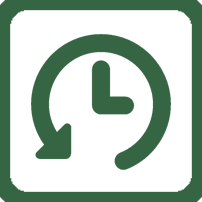
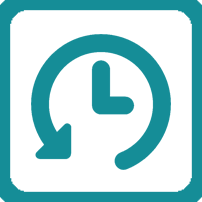
终稿

diff --git a/src/dataGenerator.js b/src/dataGenerator.js
@@ -5,6 +5,7 @@ var dataGenerator = {
     originData: [],//初始数据
     arrestData:'',
     cacheheat:'',
+    arrestDescript:'',
     line1:[{"Q":41.800610475365566,"R":123.35612103536727,"lng":123.356121,"lat":41.80061},{"Q":41.79792308644949,"R":123.36178586080672,"lng":123.361786,"lat":41.797923},{"Q":41.7955555314141,"R":123.36676404073836,"lng":123.366764,"lat":41.795556},{"Q":41.794275735520095,"R":123.3706264217198,"lng":123.370626,"lat":41.794276},{"Q":41.78915629640008,"R":123.38229939535262,"lng":123.382299,"lat":41.789156},{"Q":41.78282042443671,"R":123.3977489192784,"lng":123.397749,"lat":41.78282},{"Q":41.77507573063902,"R":123.41620251730086,"lng":123.416203,"lat":41.775076},{"Q":41.77168313318515,"R":123.42349812582137,"lng":123.423498,"lat":41.771683},{"Q":41.77168313318515,"R":123.42495724752547,"lng":123.424957,"lat":41.771683},{"Q":41.77142708073641,"R":123.4263305385411,"lng":123.426331,"lat":41.771427},{"Q":41.77136306746452,"R":123.43577191427352,"lng":123.435772,"lat":41.771363},{"Q":41.77104300014684,"R":123.4428100307286,"lng":123.44281,"lat":41.771043},{"Q":41.76118414468399,"R":123.44220921590926,"lng":123.442209,"lat":41.761184},{"Q":41.76105609763496,"R":123.44538495138289,"lng":123.445385,"lat":41.761056},{"Q":41.75990366269571,"R":123.44650075033309,"lng":123.446501,"lat":41.759904},{"Q":41.75900731010104,"R":123.44658658102156,"lng":123.446587,"lat":41.759007},{"Q":41.75695845715665,"R":123.4475307185948,"lng":123.447531,"lat":41.756958},{"Q":41.758046918427716,"R":123.45001980856063,"lng":123.45002,"lat":41.758047},{"Q":41.75932743746495,"R":123.45345303609969,"lng":123.453453,"lat":41.759327},{"Q":41.76003171204436,"R":123.45860287740828,"lng":123.458603,"lat":41.760032},{"Q":41.76041585855716,"R":123.46340939596297,"lng":123.463409,"lat":41.760416},{"Q":41.7604798827524,"R":123.47113415792586,"lng":123.471134,"lat":41.76048},{"Q":41.76041585855716,"R":123.47285077169539,"lng":123.472851,"lat":41.760416},{"Q":41.75734262106571,"R":123.47731396481396,"lng":123.477314,"lat":41.757343}],
     circle1:[{"Q":41.80073384260697,"R":123.35603719353674,"lng":123.356037,"lat":41.800734},{"Q":41.77052628610027,"R":123.44272618755696,"lng":123.442726,"lat":41.770526},{"Q":41.75724180801239,"R":123.47729304090143,"lng":123.477293,"lat":41.757242}],
     line2:[{"Q":41.77852769040189,"R":123.33088883534072,"lng":123.330889,"lat":41.778528},{"Q":41.77929575964519,"R":123.3382702745497,"lng":123.33827,"lat":41.779296},{"Q":41.77865570258127,"R":123.34187516346572,"lng":123.341875,"lat":41.778656},{"Q":41.78543998242192,"R":123.34496506825087,"lng":123.344965,"lat":41.78544},{"Q":41.78953580385409,"R":123.34788331165907,"lng":123.347883,"lat":41.789536},{"Q":41.7946552126655,"R":123.351831523329,"lng":123.351832,"lat":41.794655},{"Q":41.7987504453265,"R":123.3544064439833,"lng":123.354406,"lat":41.79875},{"Q":41.801053898701205,"R":123.35612305775282,"lng":123.356123,"lat":41.801054},{"Q":41.80386911816066,"R":123.35886963978407,"lng":123.35887,"lat":41.803869},{"Q":41.8079637620292,"R":123.36178788319228,"lng":123.361788,"lat":41.807964},{"Q":41.81173828002173,"R":123.36487778797743,"lng":123.364878,"lat":41.811738},{"Q":41.81340155633467,"R":123.36153039112685,"lng":123.36153,"lat":41.813402},{"Q":41.81442508952143,"R":123.35869797840712,"lng":123.358698,"lat":41.814425},{"Q":41.81538463702926,"R":123.35457810536025,"lng":123.354578,"lat":41.815385},{"Q":41.82235691713686,"R":123.35775384083388,"lng":123.357754,"lat":41.822357},{"Q":41.82561891595326,"R":123.35964211598036,"lng":123.359642,"lat":41.825619},{"Q":41.82939239352194,"R":123.36127289906142,"lng":123.361273,"lat":41.829392},{"Q":41.83342145452954,"R":123.36298951283095,"lng":123.36299,"lat":41.833421},{"Q":41.835403915262354,"R":123.36393365040419,"lng":123.363934,"lat":41.835404},{"Q":41.83719447217799,"R":123.36547860279677,"lng":123.365479,"lat":41.837194},{"Q":41.83738631459061,"R":123.3657360948622,"lng":123.365736,"lat":41.837386}],
@@ -14,7 +15,7 @@ var dataGenerator = {
     commercePoint:[//存放商铺建议点数据
         {
             target:[0],//单单群体一时的建议点
-            point:new AMap.LngLat(123.411154,41.782403),
+            point:new AMap.LngLat(123.450078,41.823319),
             descript:"沈阳市沈河区南二经街",
             type:0,//type分为0，1，2三个阶层，划分不同的建议度
             val1:40,
@@ -22,12 +23,28 @@ var dataGenerator = {
         },
         {
             target:[0],//单单群体一时的建议点
-            point:new AMap.LngLat(123.387942,41.782399),
+            point:new AMap.LngLat(123.421378,41.837492),
             descript:"沈阳市沈河区南二经街",
-            type:0,
+            type:1,
             val1:40,
             val2:80
-        }
+        },
+        {
+            target:[0],//单单群体一时的建议点
+            point:new AMap.LngLat(123.409614,41.823732),
+            descript:"沈阳市沈河区南二经街",
+            type:2,//type分为0，1，2三个阶层，划分不同的建议度
+            val1:40,
+            val2:80
+        },
+        {
+            target:[0],//单单群体一时的建议点
+            point:new AMap.LngLat(123.421258,41.78594),
+            descript:"沈阳市沈河区南二经街",
+            type:1,//type分为0，1，2三个阶层，划分不同的建议度
+            val1:40,
+            val2:80
+        },
     ],
     attrs: [
         {
@@ -202,6 +219,12 @@ var dataGenerator = {
     },
     getHeatData(){
 
+    },
+    loadArrestDescript(){
+        var tac = this;
+        d3.json("/src/data/point.json").then(function(data){
+            tac.arrestDescript = data;
+        })
     },
     formatter(target, index) {
         //读取数据并转换为热力格式

diff --git a/src/App.vue b/src/App.vue
@@ -66,7 +66,7 @@
       <commerceType id="commerceType" ref="commerceType" />
       <districtLine id="districtLine" ref="districtLine" />
       <trafficType id="trafficType" ref="trafficType" />
-      <stayPointInfo id="stayPointInfon" ref="stayPointInfon" />
+      <stayPointInfo  id="stayPointInfo"  ref="stayPointInfo"/>
       <costomerFeature id="costomerFeature" ref="costomerFeature" />
       <infectionDialog id="infectionDialog" ref="infectionDialog" @confirm="confirmInfection" v-bind:show="infectionShow"/>
 
@@ -317,6 +317,7 @@ export default {
       dataGenerator.formatter_heat(cache,1,"1");
       dataGenerator.mergeData(cache,1);
       dataGenerator.loadArrest(cache);
+      dataGenerator.loadArrestDescript();
       });
 
       AMap.plugin('AMap.Geocoder', function() {
@@ -371,12 +372,14 @@ export default {
 
     },
     clickTools(layerName){
+      this.hideAll();
       if(layerName == "path")
         {
           this.unfoldBox('pathDialog');
           this.showTrafficType();
         }else if(layerName == "arrest"){
           this.unfoldBox('arrestDialog');
+          this.showStayPointInfo();
         }else if(layerName == "heatmap"){
           this.showDistrictLine();
           this.unfoldBox('toolBox');
@@ -471,8 +474,18 @@ export default {
             strokeColor: '#fff', // 描边颜色
             strokeWeight: 1, // 描边宽度
           });
+
           this.arrestCircles.push(circle);
           this.map.add(circle);
+          var target = this;
+          circle.on('click', function(e) {
+            var features = dataGenerator.arrestDescript.features;
+            var length = features.length;
+            var rand = Math.floor(Math.random()*features.length);
+            var result = features[rand];
+            target.$refs.stayPointInfo.arrestData = result.properties;
+            target.map.panTo(e.center);
+            })
           if(!this.status.arrest){
           circle.hide();
           }
@@ -535,6 +548,23 @@ export default {
       d3.select(".totalLine").transition().style("left", "70%");
       d3.select(".districtLine").transition().style("left", "70%");
     },
+    showStayPointInfo(){
+      d3.select(".pointInfo").transition().style("left", "75%");
+      d3.select(".bussinessInfo").transition().style("left", "75%");
+    },
+     hideAll(){
+      d3.select(".storeLoc").transition().style("left", "100%");
+      d3.select("#commerceType").transition().style("top", "100%");
+      d3.select("#costomerFeature").transition().style("left", "100%");
+      d3.select(".trafficTypePie").transition().style("left", "100%");
+      d3.select(".trafficTypeDonut").transition().style("left", "100%");
+      d3.select(".totalLine").transition().style("left", "100%");
+      d3.select(".districtLine").transition().style("left", "100%");
+      d3.select(".pointInfo").transition().style("left", "100%");
+      d3.select(".bussinessInfo").transition().style("left", "100%");
+      
+    },
+    
     reactRange(type){
       //圈选范围响应
       this.unfold = true;
@@ -578,6 +608,7 @@ export default {
       d3.select("#container").classed("blurBackground",false);
       this.infectionShow = false;
       this.drawMyLine(this.map);
+      hideAll();
       this.medicalShow = true;
 
     },
@@ -708,16 +739,7 @@ export default {
         });
           var clickHandle = AMap.event.addListener(marker, 'click', function(e) {
             var cur =JSON.parse(JSON.stringify(e.target.getExtData()));
-            this.commerceMarkers.forEach(function(marker){
-              marker.setLabel({
-                content:''
-              })
-            },this)
-            e.target.setLabel({
-                offset: new AMap.Pixel(0, -10),  //设置文本标注偏移量
-                content: "<div><p class='stext'>"+cur.descript+"</p><p class='stext'>参数1："+cur.val1+"</p><p class='stext'>参数2："+cur.val2+"</p></div>", //设置文本标注内容
-                direction: 'top' //设置文本标注方位
-            });
+            this.$refs.commerceType.changeData();
             this.map.panTo(e.target.getPosition());
           },this);
 

diff --git a/src/commerceType.vue b/src/commerceType.vue
@@ -36,15 +36,7 @@ export default {
     },
     data(){
         return {
-        }
-    },
-    computed: {
-    },
-    methods: {
-      drawStoreType() {
-        
-        //var echarts = require('echarts');
-        var option = {
+            option:{
             tooltip: {
                 trigger: 'item',
                 formatter: '{a} <br/>{b}: {c} ({d}%)'
@@ -110,12 +102,25 @@ export default {
                     ]
                 }
             ]
-        };
+        }
+        }
+    },
+    computed: {
+    },
+    methods: {
+      drawStoreType() {
+        //var echarts = require('echarts');
+        var option = this.option;
         // 基于准备好的dom，初始化echarts实例
         console.log(document.getElementById('storeType'))
         var myChart = echarts.init(document.getElementById('storeType'), 'dark');
         myChart.setOption(option);
-    }
+    },
+        
+        changeData(){
+            this.option.series[0].data.forEach(function(s){s.data = Math.floor(Math.random()*5000);});
+            this.option.series[1].data.forEach(function(s){s.data = Math.floor(Math.random()*2000);});
+        }
     },
     props:{
         ids:{

diff --git a/src/stayPointInfo.vue b/src/stayPointInfo.vue
@@ -2,9 +2,9 @@
 <div v-bind:id="ids" class="genderProportion">
     <div class="pointInfo">
         <div class="staypointtext">
-            所选驻点:<p class="text chinese " id="point">辽宁省沈阳市和平区哈尔滨路11号</p>
-            驻点频率:<p class="text chinese " id="frequency">229</p>
-            驻留时间:<p class="text chinese" id="time">16.0h</p>
+            所选驻点:<p class="text chinese " id="point">{{arrestData.address}}</p>
+            驻点频率:<p class="text chinese " id="frequency">{{arrestData.frequency}}</p>
+            驻留时间:<p class="text chinese" id="time">{{arrestData.lastTime}}h</p>
         </div>
     </div>
     <div class="bussinessInfo"></div>
@@ -27,6 +27,11 @@ export default {
     },
     data(){
         return {
+            arrestData:{
+                "lastTime": 0.47,
+                "frequency": 3,
+                "address": "辽宁省沈阳市和平区抚顺路",
+            }
         }
     },
     computed: {

diff --git a/src/style/common.scss b/src/style/common.scss
@@ -303,7 +303,7 @@ right:0;
 }
 
 .floatStatus{
-  top: 420px;
+  top: 90%;
   left: 3%;
   z-index: 5;
   position: absolute;
@@ -434,7 +434,7 @@ right:0;
 
 .pointInfo{
   top: 5%;
-  left: 75%;/*75*/
+  left: 100%;/*75*/
   z-index: 5;
   position: absolute;
   opacity: 0.8;
@@ -448,7 +448,7 @@ right:0;
 
 .bussinessInfo{
   top: 42%;
-  left: 75%;/*75*/
+  left: 100%;/*75*/
   z-index: 5;
   position: absolute;
   opacity: 0.8;

diff --git a/src/arrestDialog.vue b/src/arrestDialog.vue
@@ -34,8 +34,8 @@
             <el-switch
               style="display: block"
               v-model="modevalue"
-              active-color="#13ce66"
-              inactive-color="#ff4949"
+              active-color="#158d97"
+              inactive-color="#158d97"
               active-text="显示群体"
               v-on:change="changeMode"
               inactive-text="显示热度">

diff --git a/src/commerceInfo.vue b/src/commerceInfo.vue
@@ -3,7 +3,7 @@
         <el-table
             :data="tableData"
             :header-cell-style="{background:'rgb(41, 43, 61)',color:'white'}"
-            style="background-color:transparent;color:white;"
+            style="background-color:transparent;color:black;"
             width="tableWidth">
             <el-table-column
                 prop="date"
